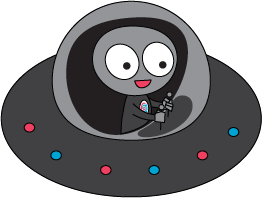
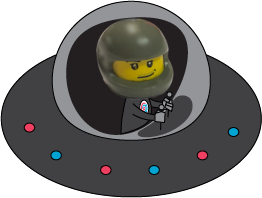
Change normal position to top; change alien head image

Changed region(s): [[0.3359, 0.0909, 0.7023, 0.5152]]

diff --git a/web/star-trek-underground-simple/js/game.js b/web/star-trek-underground-simple/js/game.js
@@ -21,7 +21,6 @@
     var time = new Phaser.Time(game);
 
 
-
     // game logic
     var gameStart = false;
     var gameOver = false;
@@ -95,7 +94,7 @@
         shuttle.width *= objScale;
         shuttle.height *= objScale;
         shuttle.x = shuttle.width;
-        shuttle.y = h/2;
+        shuttle.y = h/4;
         // space shuttle physics
         game.physics.p2.enableBody(shuttle, false);
         shuttle.body.motionState = Phaser.KINEMATIC;
@@ -186,13 +185,14 @@
             // console.log("Midpoint Intensity: ", mid.intensity);
 
             // shuttle movements
-            if (north.intensity > 0) {
-                moveShuttle(north.intensity);
+            if (north.intensity > 10) {
+                moveShuttle(north.intensity-10);
             } else {
                 buffer = 0;
                 shuttle.body.velocity.y = 0;
-                if (shuttle.y > h/2 + margin*objScale) shuttle.body.velocity.y = -100;
-                if (shuttle.y < h/2 - margin*objScale) shuttle.body.velocity.y = 100;
+                if (shuttle.y > h/4) shuttle.body.velocity.y = -100;
+                // if (shuttle.y > h/4 + margin*objScale) shuttle.body.velocity.y = -100;
+                // if (shuttle.y < h/2 - margin*objScale) shuttle.body.velocity.y = 100;
             }
 
             // start creating rocks
@@ -204,7 +204,7 @@
 
             if (!gameEnding) {
                 var now = new Date();
-                if (now - startTime > 10000) {
+                if (now - startTime > 25000) {
                     gameEnding = true;
                 }
             } else {
@@ -269,7 +269,7 @@
         }
         rocks = [];
         shuttle.x = shuttle.width;
-        shuttle.y = h / 2;
+        shuttle.y = h / 4;
 
         gameStart = true;
         gameOver = false;
@@ -428,8 +428,10 @@
         if (intensity > MAX_INTENSITY) intensity = MAX_INTENSITY;
 
         buffer++;
-        if (buffer > 15) {
-            var newY = h/2 + (Math.round(intensity)-MAX_INTENSITY/2)/MAX_INTENSITY * shuttle.height*4;
+        if (buffer > 0) {
+            // var newY = h/2 + (Math.round(intensity)-MAX_INTENSITY/2)/MAX_INTENSITY * shuttle.height*4;
+            var newY = h/4 + Math.round(intensity)/MAX_INTENSITY * shuttle.height*3;
+            if (newY > h/4 * 3) newY = h/4 * 3;
             if (Math.abs(shuttle.y - newY) > 1) {
                 shuttle.body.y = newY;
             }
